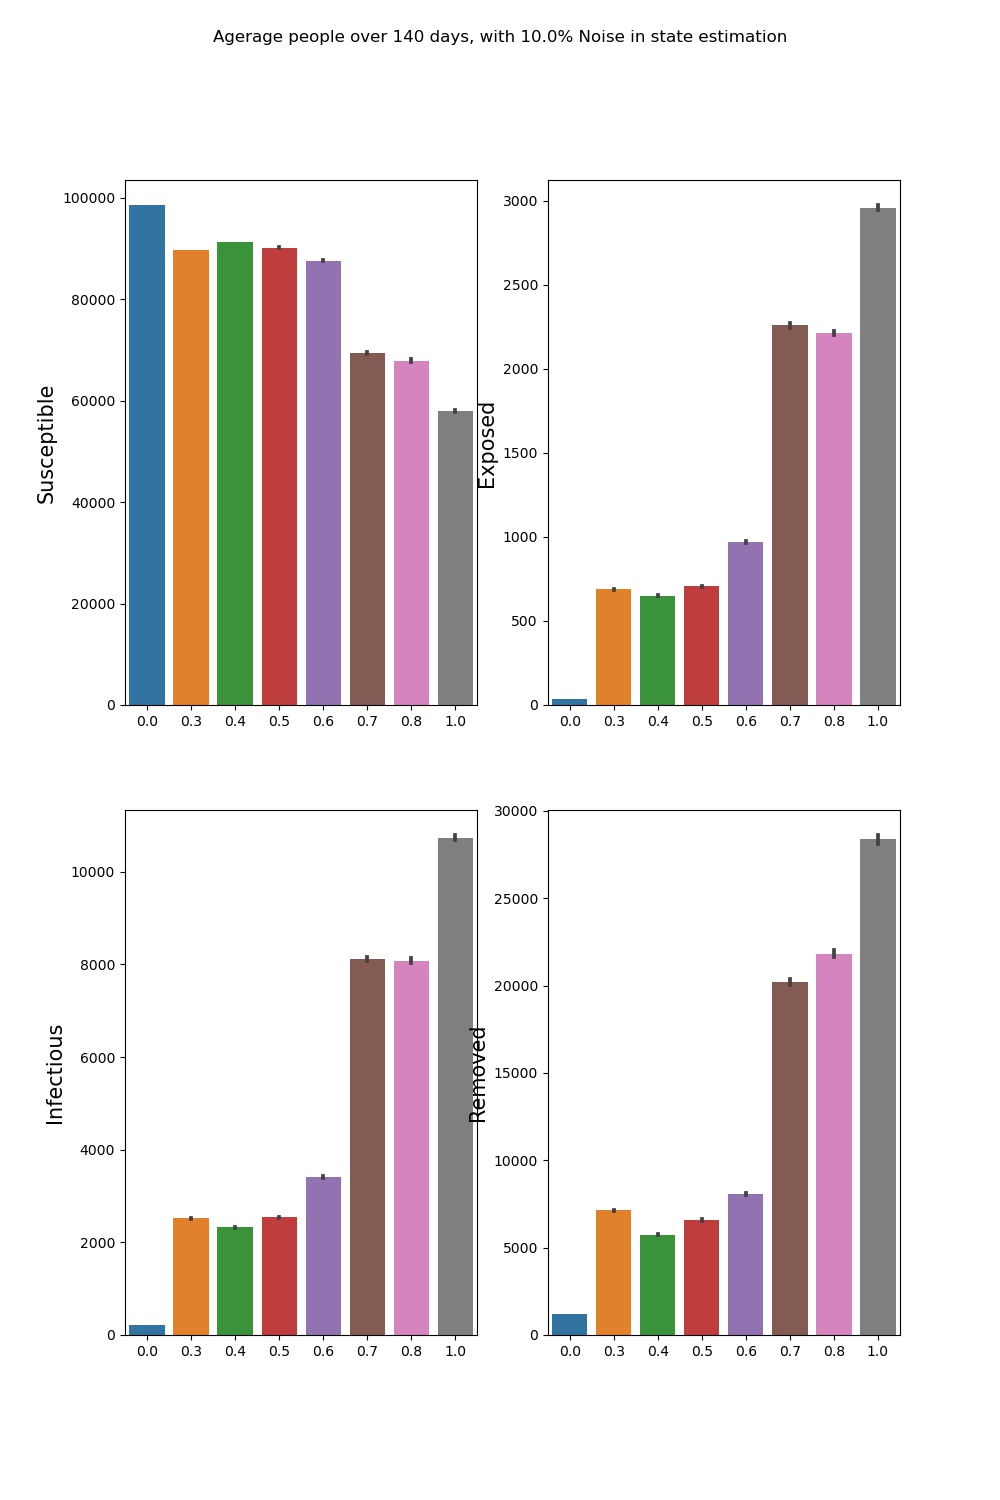
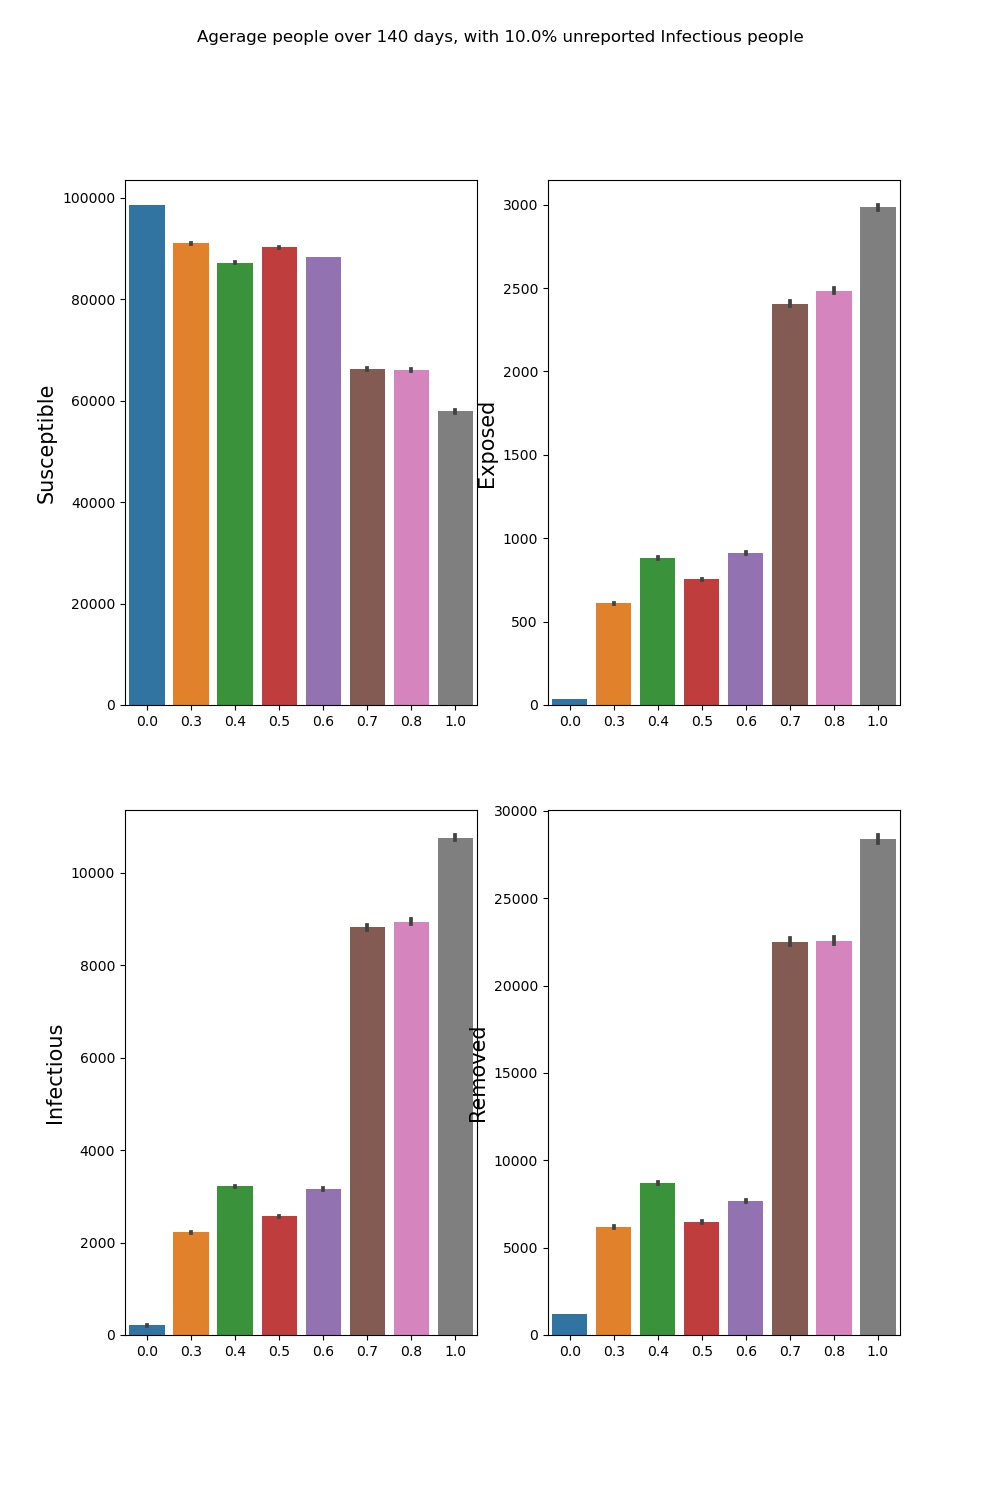
BugFix:SNR figures
corrected snr

diff --git a/eval.py b/eval.py
@@ -114,9 +114,9 @@ def data_per_exp(sub_dir, noise = None):
         state = std_scalar.transform(np.reshape(state, (1,-1)))
         if noise is not None:
             S_true, E_true, I_true, R_true = state[0][0], state[0][1], state[0][2], state[0][3]
-            I_noisy = I_true * noise
-            S_noisy = S_true + (I_true * (1 - noise) / 2)
-            E_noisy = E_true + (I_true * (1 - noise) / 2)
+            I_noisy = I_true * (1 - noise)
+            S_noisy = S_true + (I_true * (noise) / 2)
+            E_noisy = E_true + (I_true * (noise) / 2)
             state  = np.array([[S_noisy, E_noisy, I_noisy, R_true]])
 
         if args['rnn']:
@@ -174,7 +174,7 @@ def plot(path, to_load_sub_dir, savefig_filename=None, snr = 0, format = 'pdf'):
     axes[0, 1].set_ylabel('Exposed', fontsize=15)
     axes[1, 0].set_ylabel('Infectious', fontsize=15)
     axes[1, 1].set_ylabel('Removed', fontsize=15)
-    fig.suptitle('Agerage people over 140 days, with ' + str(snr*100) + '% Noise in state estimation' ) # or plt.suptitle('Main title')
+    fig.suptitle('Agerage people over 140 days, with ' + str(snr*100) + '% unreported Infectious people' ) # or plt.suptitle('Main title')
 
     if savefig_filename is not None:
         assert isinstance(savefig_filename + '.' + format, str), "filename for saving the figure must be a string"
@@ -224,19 +224,19 @@ except:
     pass
 
 for noise in range(10):
-    snr = noise/10 #signal to noise ratio
+    snr = 1 - noise/10 #signal to noise ratio
     print("RUNNING FOR SNR: {}".format(snr))
 
     name = '_eval' + '_' + str(snr*100)
-    #-------
-    #uncomment this for the first time
-    S, E, I, R, A = data(dir, noise = snr)  
-    S.to_csv(dir + to_save_sub_dir + '/S' + name + '.csv')
-    E.to_csv(dir + to_save_sub_dir + '/E' + name+ '.csv')
-    I.to_csv(dir + to_save_sub_dir + '/I' + name+ '.csv')
-    R.to_csv(dir + to_save_sub_dir + '/R' + name+ '.csv')
-    A.to_csv(dir + to_save_sub_dir + '/act' + name+ '.csv')
-    #--------
+    # #-------
+    # #uncomment this for the first time
+    # S, E, I, R, A = data(dir, noise = snr)  
+    # S.to_csv(dir + to_save_sub_dir + '/S' + name + '.csv')
+    # E.to_csv(dir + to_save_sub_dir + '/E' + name+ '.csv')
+    # I.to_csv(dir + to_save_sub_dir + '/I' + name+ '.csv')
+    # R.to_csv(dir + to_save_sub_dir + '/R' + name+ '.csv')
+    # A.to_csv(dir + to_save_sub_dir + '/act' + name+ '.csv')
+    # #--------
 
     plot(dir, to_save_sub_dir,  dir + to_save_sub_dir + '/states' + name , snr = snr, format = 'jpg')
     plot_act(dir, to_save_sub_dir,  dir + to_save_sub_dir + '/actions'+ name , snr = snr, format = 'jpg')
